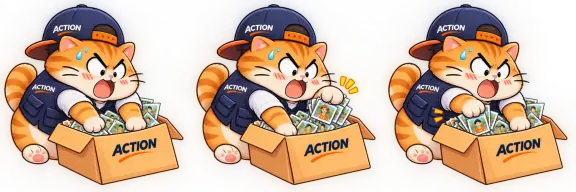
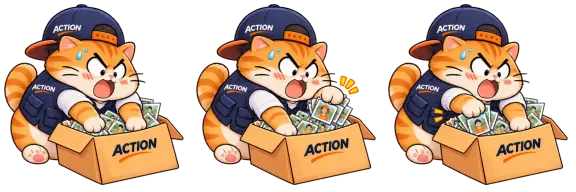
Scan: the digging cat without its background

diff --git a/apps/web/src/components/share/scan/scan-flow.tsx b/apps/web/src/components/share/scan/scan-flow.tsx
@@ -495,9 +495,9 @@ function AutoConsent({
 
 /**
  * Shown while the photo is checked and searched: the mascot cat digging through a box of photos
- * (owner, 2026-11-13), in place of a progress bar the API could not feed anyway. One 30 KB
- * sprite of three frames, stepped by CSS; a hashed static file, cached for good. Reduced motion
- * keeps the first frame still.
+ * (owner, 2026-11-13; transparent background 2026-11-14), in place of a progress bar the API
+ * could not feed anyway. One 26 KB sprite of three frames, stepped by CSS; a hashed static file,
+ * cached for good. Reduced motion keeps the first frame still.
  */
 export function SearchProgress({ label }: { label: string }) {
   return (
